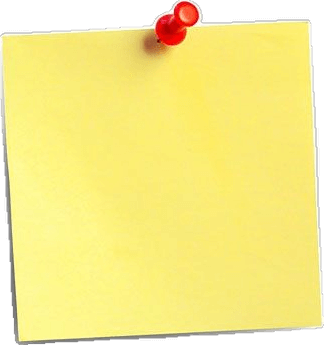
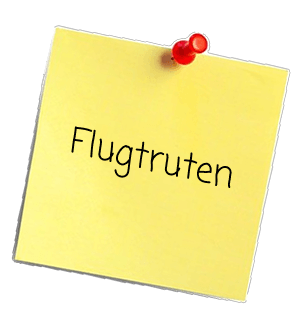
Update post-it images and add instruction URLs for Clues, Solution, Escape, Victims, and Suspects views

diff --git a/src/components/Base.vue b/src/components/Base.vue
@@ -4,8 +4,8 @@ export default {
     props: {
         postItUrl: { type: String, required: true },
         notebookUrl: { type: String, required: true },
+        instructionsUrl: { type: String, required: true },
         title: { type: String, required: true },
-        instructions: { type: String, required: true },
         completed: { type: Boolean, default: false },
         levelId: { type: String, required: true }
     },
@@ -56,7 +56,6 @@ export default {
         <!-- Post-it note -->
         <div class="post-it-wrapper">
             <div class="post-it" :style="{ backgroundImage: `url(${postItUrl})` }">
-                <div class="post-it-text">{{ title }}</div>
             </div>
         </div>
 
@@ -80,8 +79,7 @@ export default {
             </div>
 
             <!-- Instruktioner -->
-            <div class="instructions">
-                {{ instructions }}
+            <div class="instructions" :style="{ backgroundImage: `url(${instructionsUrl})` }">
             </div>
         </div>
 
@@ -102,7 +100,7 @@ export default {
     background-size: cover;
     background-repeat: no-repeat;
     background-position: center;
-    padding: var(--padding-medium);
+    padding: var(--padding-small);
     box-sizing: border-box;
     overflow: hidden;
 }
@@ -136,16 +134,7 @@ export default {
     box-sizing: border-box;
 }
 
-.post-it-text {
-    color: #000000;
-    font-weight: 400;
-    text-align: center;
-    font-family: 'Coming Soon', cursive;
-    font-size: var(--post-it-font);
-    text-shadow: 1px 1px 2px rgba(255, 255, 255, 0.8);
-    z-index: 2;
-    padding: var(--padding-small);
-}
+
 
 /* Notesbog */
 .notebook {
@@ -167,7 +156,7 @@ export default {
 
 /* Spilindhold */
 .game-content {
-    padding: var(--padding-medium);
+    padding: var(--padding-small);
     grid-column: 1 / 4;
     grid-row: 1 / 7;
     background-color: #F1F4F0;
@@ -255,20 +244,14 @@ export default {
     background-position: center;
     font-family: 'Coming Soon', cursive;
     font-weight: 300;
-    color: rgb(0, 0, 0);
     padding: var(--padding-large);
-    font-size: var(--font-large);
     border: none;
-    line-height: 1.5;
-    text-align: center;
     box-sizing: border-box;
+    height: 15vh;
     width: 100%;
-    max-width: clamp(600px, 80vw, 1050px);
-    min-height: clamp(100px, 12vh, 150px);
     display: flex;
     align-items: center;
     justify-content: center;
-    margin: 0 auto;
 }
 
 @keyframes pulse {

diff --git a/src/components/Board.vue b/src/components/Board.vue
@@ -32,7 +32,6 @@
                     backgroundRepeat: 'no-repeat',
                     backgroundPosition: 'center'
                 }" @click="navigateToCategory(item)">
-                    <span class="post-it-text">{{ item.title }}</span>
                 </div>
             </div>
 
@@ -469,16 +468,7 @@ onMounted(() => {
     scale: 1 !important;
 }
 
-.post-it-text {
-    color: #000000;
-    font-weight: 400;
-    text-align: center;
-    font-family: 'Coming Soon', cursive;
-    font-size: var(--post-it-font);
-    text-shadow: 1px 1px 2px rgba(255, 255, 255, 0.8);
-    z-index: 2;
-    padding: var(--padding-small);
-}
+
 
 /* Pulsing animation for available levels */
 @keyframes pulse {

diff --git a/src/views/SuspectsView.vue b/src/views/SuspectsView.vue
@@ -1,9 +1,9 @@
 <template>
   <Base 
     postItUrl="/images/post-it/post-it-lime.png" 
+    instructionsUrl="/images/ui/instructions_suspects.png"
     notebookUrl="/images/ui/suspects_notebook.png"
     title="De mistænkte" 
-    instructions="Som en del af efterforskningen skal der tages billeder af de mistænkte i sagen. Træk de stykker plastik ind, som har mikroplast-størrelse (mindre end 5 millimeter)."
     levelId="suspects" 
     :completed="true" 
     @continue="handleContinue">
@@ -44,7 +44,7 @@ export default {
 .suspects_game {
   display: block;
   margin: 0 auto;
-  width: 60vw;
+  width: 100vh;
   object-fit: cover;
 }
 </style>

diff --git a/src/views/VictimsView.vue b/src/views/VictimsView.vue
@@ -1,9 +1,9 @@
 <template>
     <Base 
-    postItUrl="/images/post-it/post-it-yellow.png" 
+    postItUrl="/images/post-it/post-it-green.png" 
+    instructionsUrl="/images/ui/instructions_victims.png"
     notebookUrl="/images/ui/victims_notebook.png"
     title="Flugtruten"
-    instructions="Tegn pile, så flugtruterne passer." 
     levelId="flugtruten" 
     :completed="true"
     @continue="handleContinue">
@@ -43,7 +43,7 @@ export default {
 .victims_game {
     display: block;
     margin: 0 auto;
-    width: 100%;
+    width: 120vh;
     object-fit: cover;
 }
 </style>

diff --git a/src/views/EscapeView.vue b/src/views/EscapeView.vue
@@ -1,9 +1,9 @@
 <template>
     <Base 
     postItUrl="/images/post-it/post-it-yellow.png" 
+    instructionsUrl="/images/ui/instructions_escape.png"
     notebookUrl="/images/ui/escape_notebook.png"
     title="Flugtruten"
-    instructions="Tegn pile, så flugtruterne passer." 
     levelId="flugtruten" 
     :completed="true"
     @continue="handleContinue">
@@ -46,7 +46,7 @@ export default {
 .escape_game {
     display: block;
     margin: 0 auto;
-    width: 100%;
+    width: 120vh;
     object-fit: cover;
 }
 </style>

diff --git a/src/views/CluesView.vue b/src/views/CluesView.vue
@@ -1,9 +1,9 @@
 <template>
     <Base 
     postItUrl="/images/post-it/post-it-sand.png" 
+    instructionsUrl="/images/ui/instructions_clues.png"
     notebookUrl="/images/ui/clues_notebook.png"
     title="Sporene" 
-    instructions="Træk de produkter ned i kurven, som indeholder primær mikroplast, eller som indeholder plast, der kan blive til sekundær mikroplast ved nedbrydning."
     levelId="sporene" 
     :completed="gameCompleted" 
     @continue="continueToNext" 

diff --git a/src/views/SolutionView.vue b/src/views/SolutionView.vue
@@ -1,9 +1,9 @@
 <template>
     <Base 
     postItUrl="/images/post-it/post-it-pink.png"
+    instructionsUrl="/images/ui/instructions_solution.png"
     notebookUrl="/images/ui/solution_notebook.png"
     title="Opklaringen"
-    instructions="Ved hjælp af gode vaner kan vi alle være med til at stoppe mikroplast fra at ende i havet. Sorter tingene i gode og dårlige vaner."
     levelId="solution" 
     :completed="gameCompleted" 
     @continue="handleContinue" 
